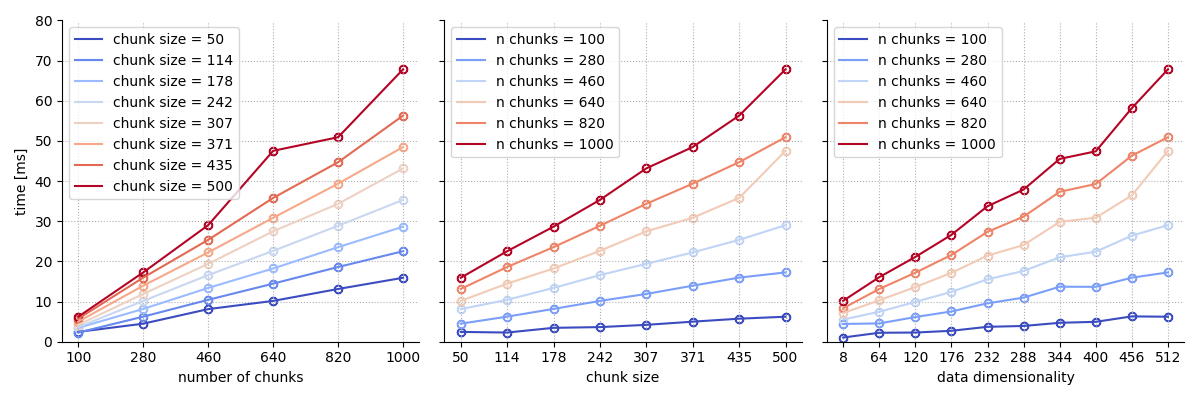
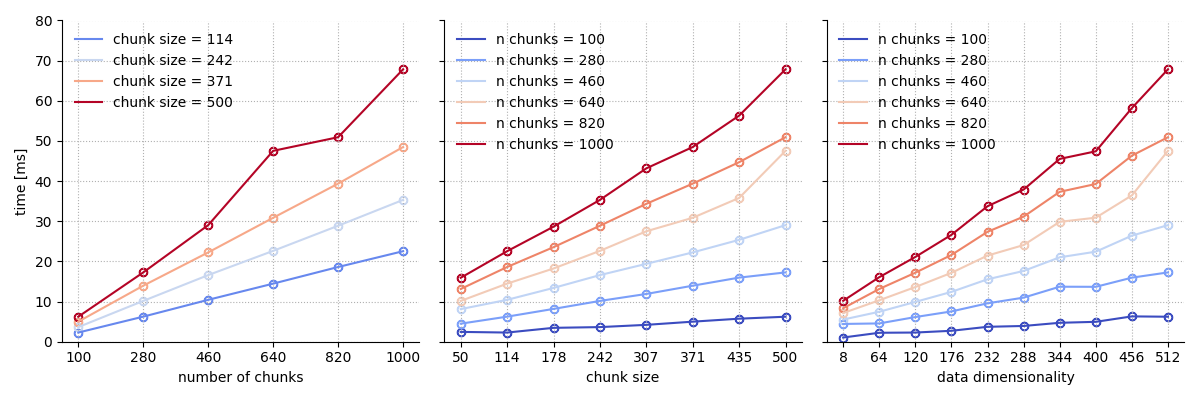
plt

diff --git a/E_R1_scaling_vis2.py b/E_R1_scaling_vis2.py
@@ -20,6 +20,8 @@ mean_res = np.mean(res, axis=0)
 fig, ax = plt.subplots(1,3,figsize=(12,4), sharex=False, sharey=True)
 cols = plt.cm.coolwarm(np.linspace(0,1,len(chunk_size)))
 for chs_id, chs in enumerate(chunk_size):
+    if chs_id%2==0:
+        continue
     ax[0].plot(mean_res[:,chs_id,-1], 
                label='chunk size = %i' % chs,
                color=cols[chs_id])
@@ -29,7 +31,7 @@ for chs_id, chs in enumerate(chunk_size):
 ax[0].set_xlabel('number of chunks')
 ax[0].set_xticks(np.arange(len(n_chunks)), n_chunks)
 ax[0].set_ylabel('time [ms]')
-ax[0].legend()
+ax[0].legend(frameon=False)
 
 cols = plt.cm.coolwarm(np.linspace(0,1,len(n_chunks)))
 for nch_id, nch in enumerate(n_chunks):
@@ -41,7 +43,7 @@ for nch_id, nch in enumerate(n_chunks):
     
 ax[1].set_xlabel('chunk size')
 ax[1].set_xticks(np.arange(len(chunk_size)), chunk_size)
-ax[1].legend()
+ax[1].legend(frameon=False)
 # ax[1].set_ylabel('time')
 
 cols = plt.cm.coolwarm(np.linspace(0,1,len(n_chunks)))
@@ -54,7 +56,7 @@ for nch_id, nch in enumerate(n_chunks):
     
 ax[2].set_xlabel('data dimensionality')
 ax[2].set_xticks(np.arange(len(dims)), dims)
-ax[2].legend()
+ax[2].legend(frameon=False)
 # ax[2].set_ylabel('time')
 
 ax[0].set_ylim(0,80)
